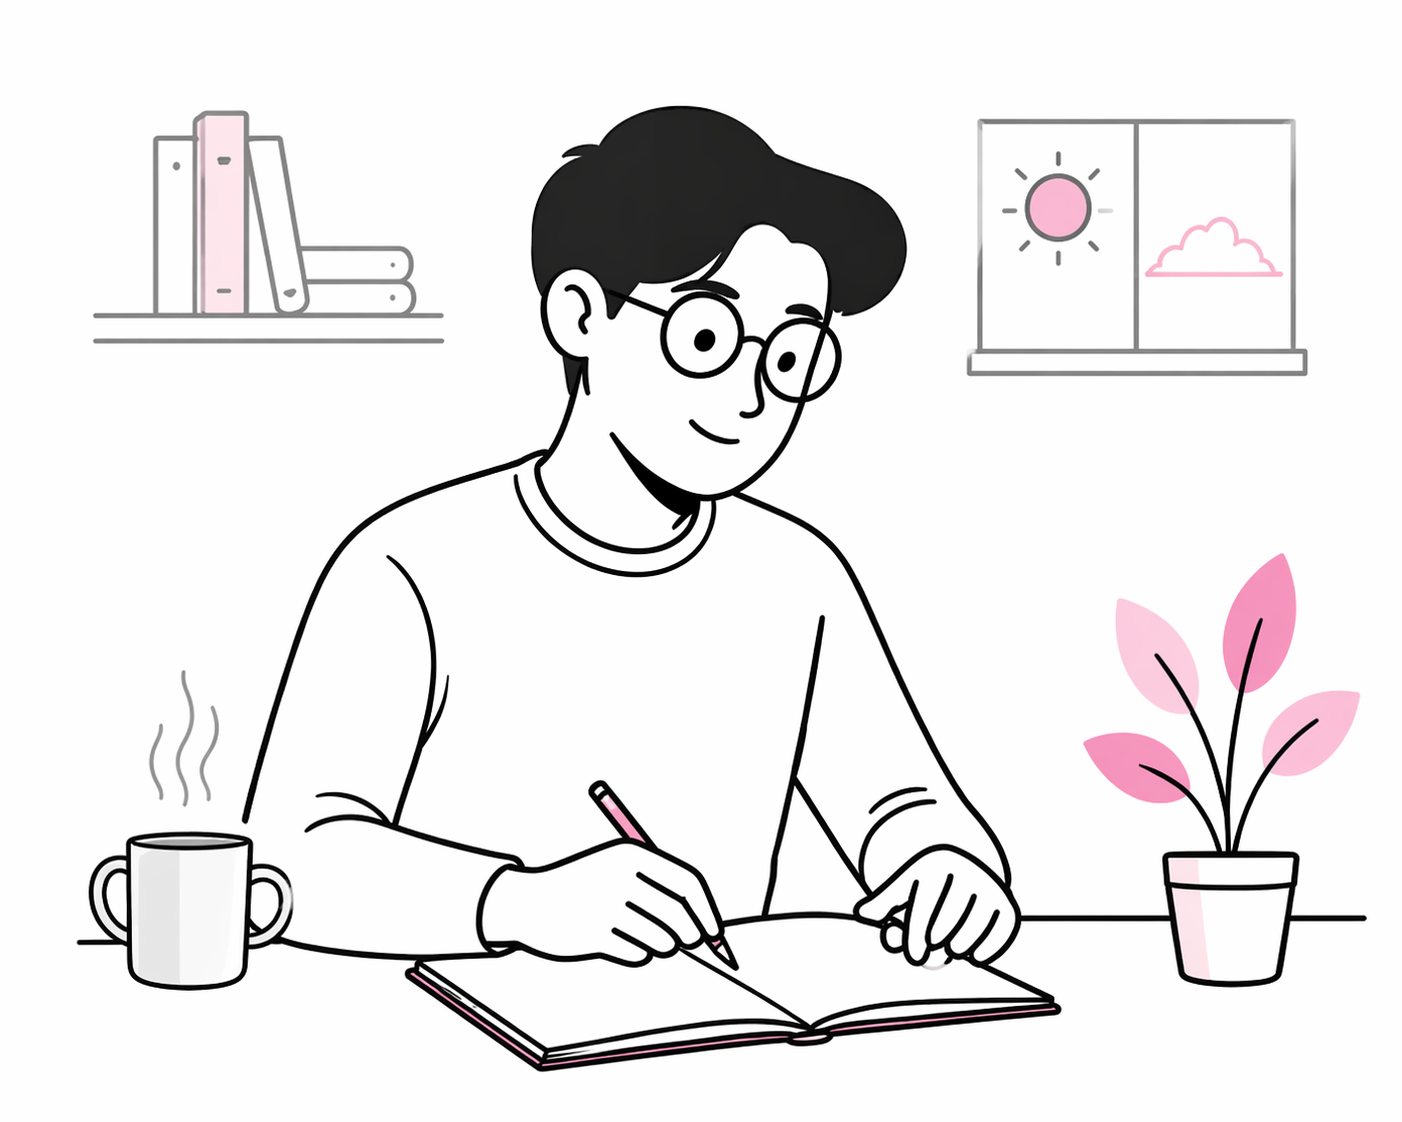
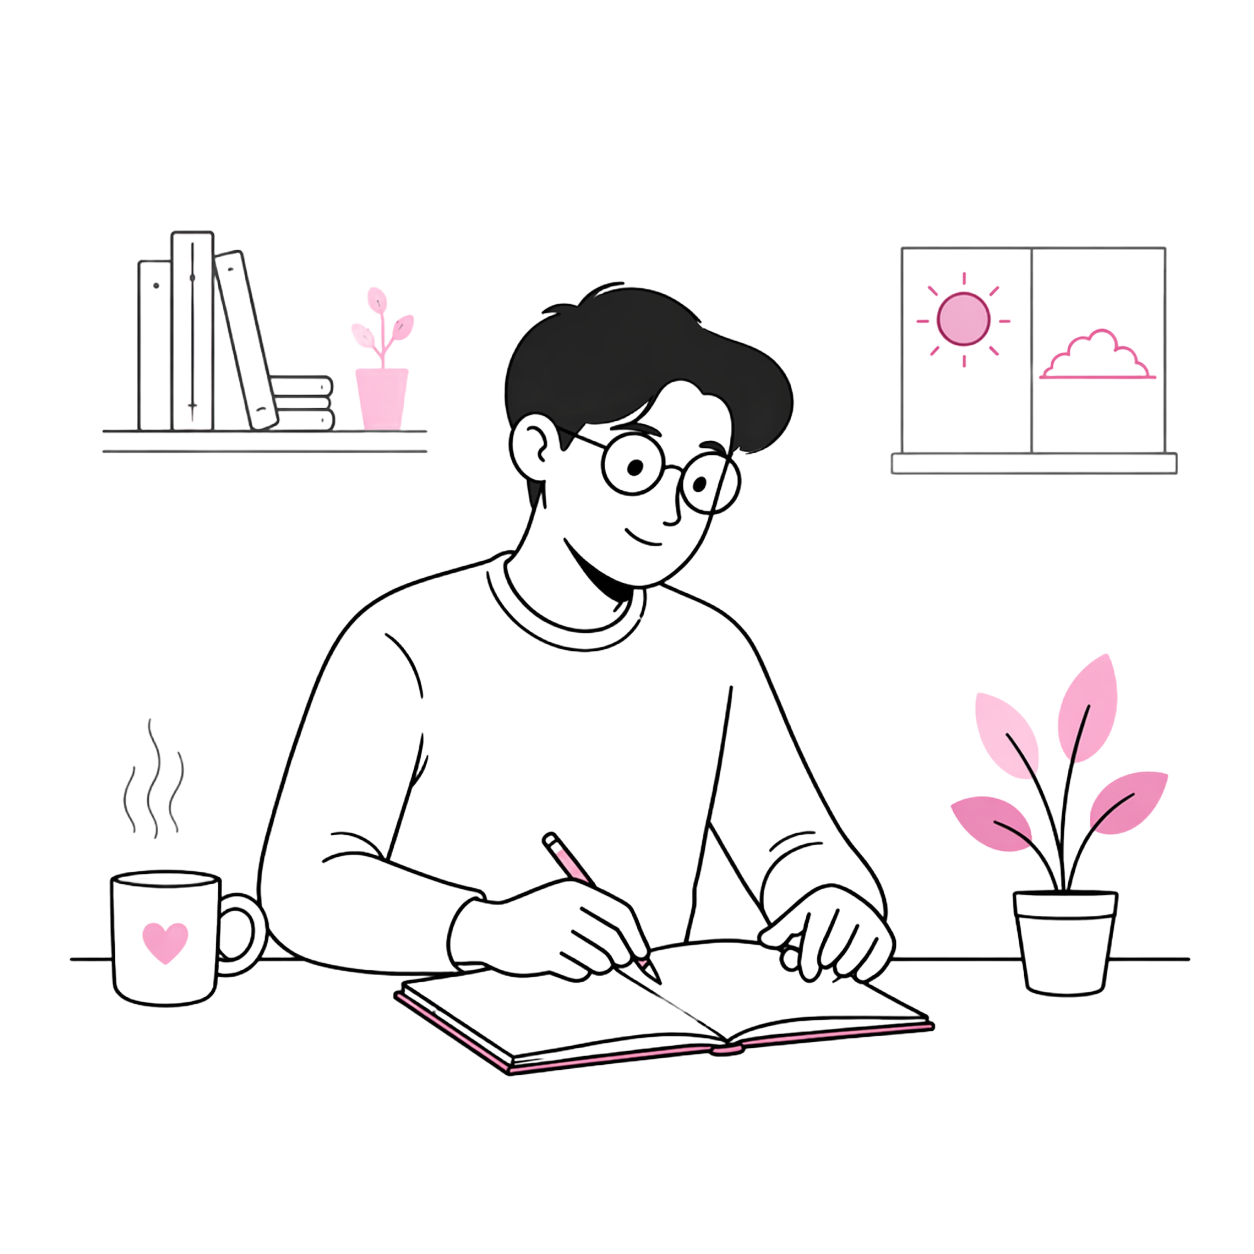
fix(about): 深色模式下反相线稿，与背景协调
- 原写法 filter: light-dark(none, ...) 不合法：light-dark() 规范上
  只能用于 <color> 类型的属性，在 filter 里会被浏览器静默丢弃
- 改用 html.dark 选择器作用在 .about-hero-art/.about-section-art img
- 深色模式下对插画 invert(0.88) 把深线稿转为浅线稿
  hue-rotate(180deg) 让粉色点缀保持粉色不被反成青绿色

diff --git a/assets/css/custom.css b/assets/css/custom.css
@@ -2492,7 +2492,12 @@ a:focus-visible {
   height: auto;
   max-width: 100%;
   width: 100%;
-  filter: light-dark(none, brightness(0.92) saturate(0.85));
+}
+
+/* 深色模式：把深色线稿反成浅色，hue-rotate 把粉色点缀转回粉色 */
+html.dark .about-hero-art img,
+html.dark .about-section-art img {
+  filter: invert(0.88) hue-rotate(180deg);
 }
 
 /* ── Section card ── */
@@ -2591,7 +2596,6 @@ a:focus-visible {
   height: auto;
   max-width: 100%;
   width: 100%;
-  filter: light-dark(none, brightness(0.92) saturate(0.85));
 }
 
 /* ── Quote ── */
